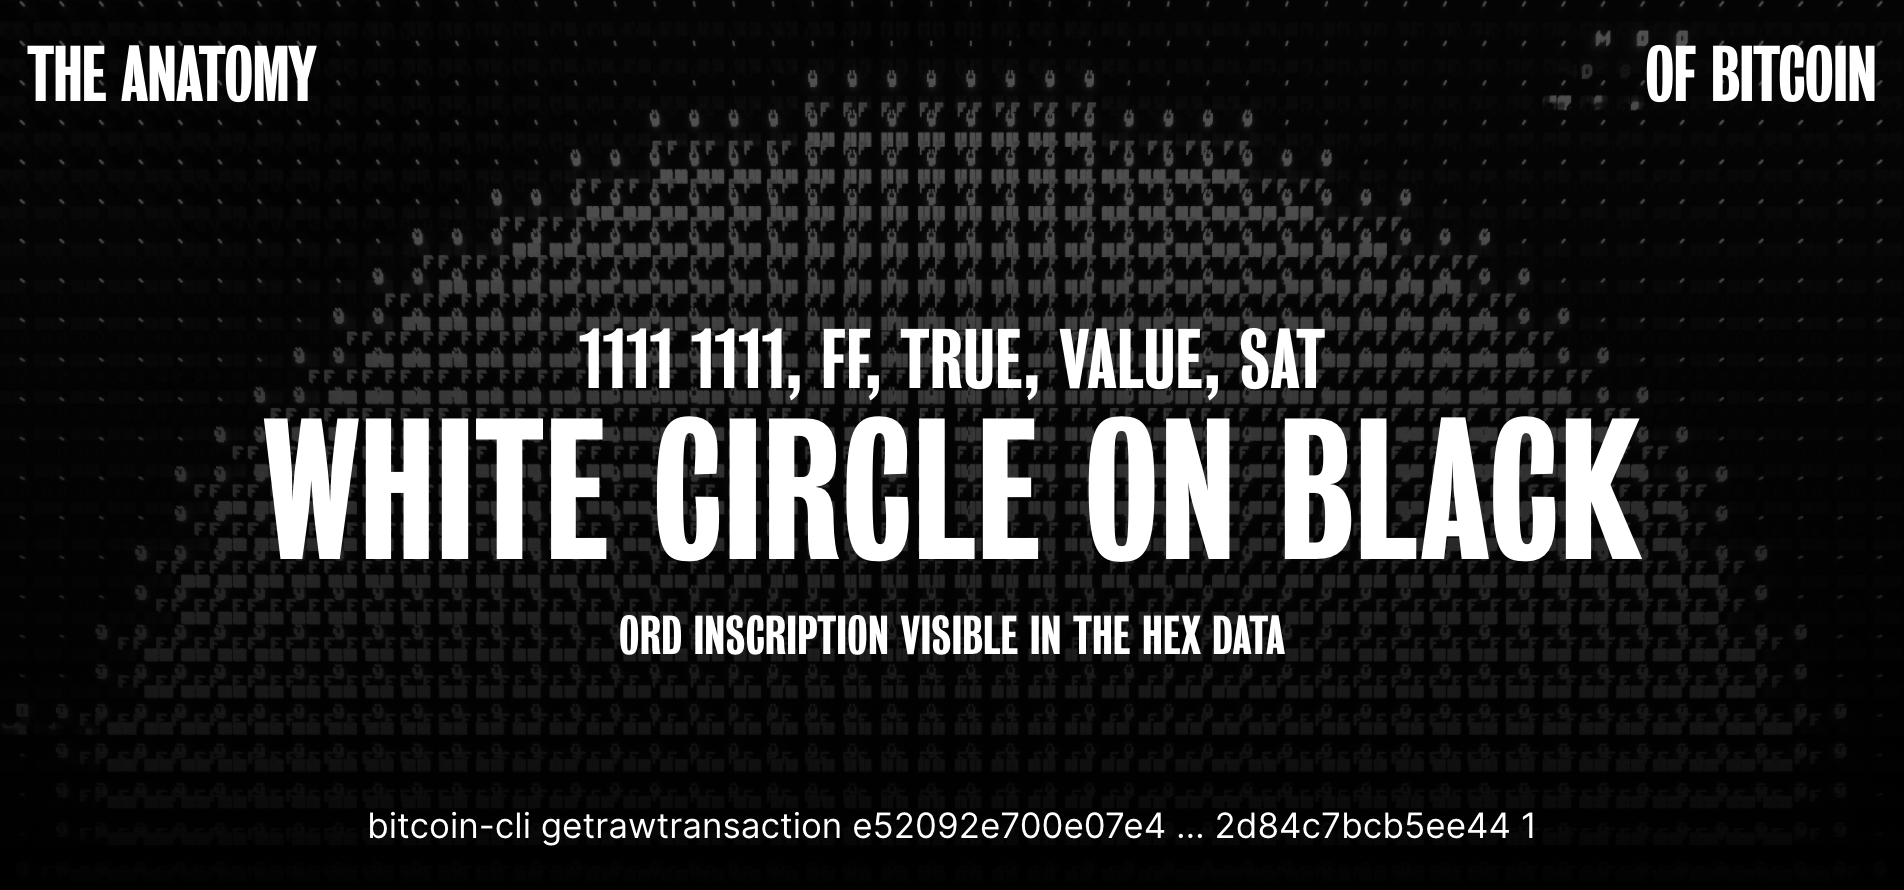
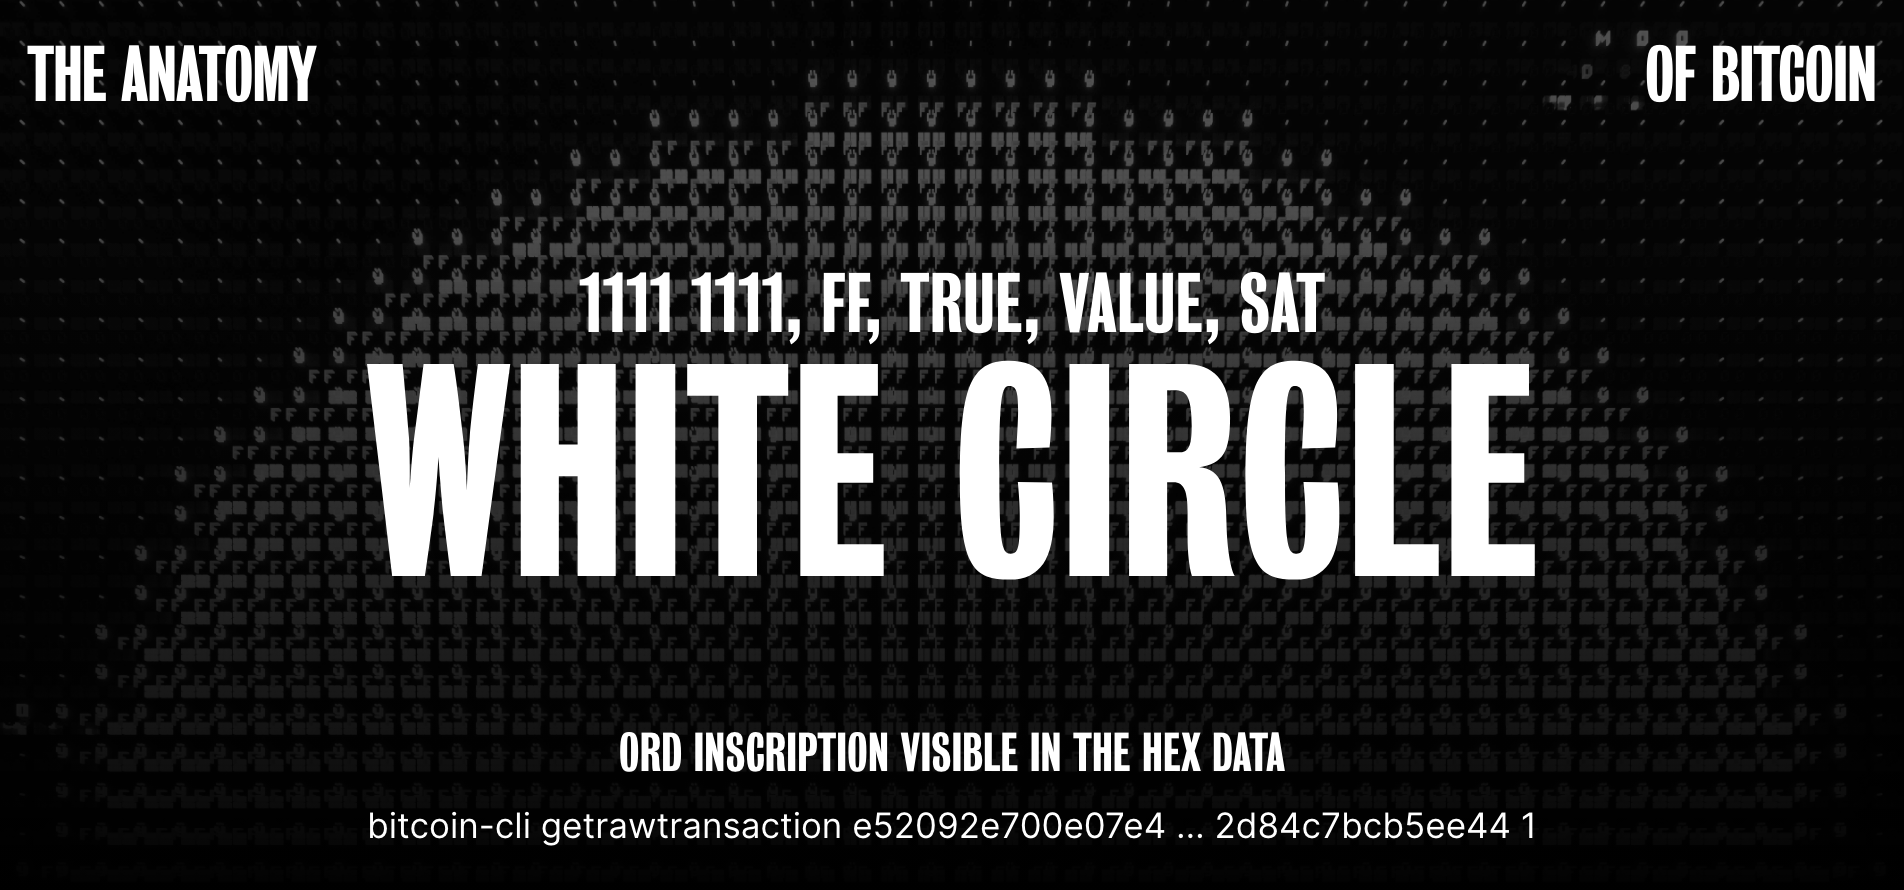
Change title

Changed region(s): [[0.1239, 0.3034, 0.8676, 0.7584], [0.3099, 0.8191, 0.6817, 0.8798]]

diff --git a/inscription/index.html b/inscription/index.html
@@ -4,7 +4,7 @@
     <meta name="viewport" content="width=device-width,initial-scale=1">
     <meta charset="utf-8">
 
-    <title>Inscription | Anatomy of Bitcoin</title>
+    <title>White Circle Inscription | Anatomy of Bitcoin</title>
 
     <link rel="apple-touch-icon" sizes="180x180" href="../assets/fav/apple-touch-icon.png">
     <link rel="icon" type="image/png" sizes="32x32" href="../assets/fav/favicon-32x32.png">
@@ -15,7 +15,7 @@
 
 
     <meta name="description" content="Learn about process of inscribing a circle shape on the bitcoin blockchain that is legible without a parsing protocol." />
-    <meta itemprop="name" content="Inscription - The Anatomy of Bitcoin">
+    <meta itemprop="name" content="White Circle Inscription - The Anatomy of Bitcoin">
     <meta itemprop="description" content="Learn about process of inscribing a circle shape on the bitcoin blockchain that is legible without a parsing protocol.">
     <meta itemprop="image" content="https://anatomyofbitcoin.com/assets/inscription_process/preview.png">
     <meta name="description" content="Learn about process of inscribing a circle shape on the bitcoin blockchain that is legible without a parsing protocol."/>
@@ -26,7 +26,7 @@
     <meta property="twitter:card" content="summary_large_image">
     <meta property="twitter:site" content="@bitcoinanatomy">
     <meta property="twitter:creator" content="@bitcoinanatomy">
-    <meta property="twitter:title" content="Inscription - The Anatomy of Bitcoin">
+    <meta property="twitter:title" content="White Circle Inscription - The Anatomy of Bitcoin">
     <meta property="twitter:description" content="Learn about process of inscribing a circle shape on the bitcoin blockchain that is legible without a parsing protocol."/>
     <meta property="twitter:image:src" content="https://anatomyofbitcoin.com/assets/inscription_process/preview.png"/>
     <meta property="twitter:domain" content="anatimyofbitcoin.com">
@@ -54,10 +54,10 @@
         padding-top: 30vw;
       }
 
-      h1 {
-          letter-spacing: -0.05vw;
+      h1.scenes-hero {
+        letter-spacing: -0.05vw;
+        font-size: 14vw;
       }
-
 
       #inscription p, #inscription ul {
         max-width: 640px;
@@ -197,7 +197,7 @@
             1111 1111, FF, True, Value, Sat
           </h3>
           <h1 class="scenes-hero">
-            White circle on black
+            White Circle
           </h1>
           <h3 class="scenes-hero">
             <span>ORD Inscription Visible in the Hex Data</span>
